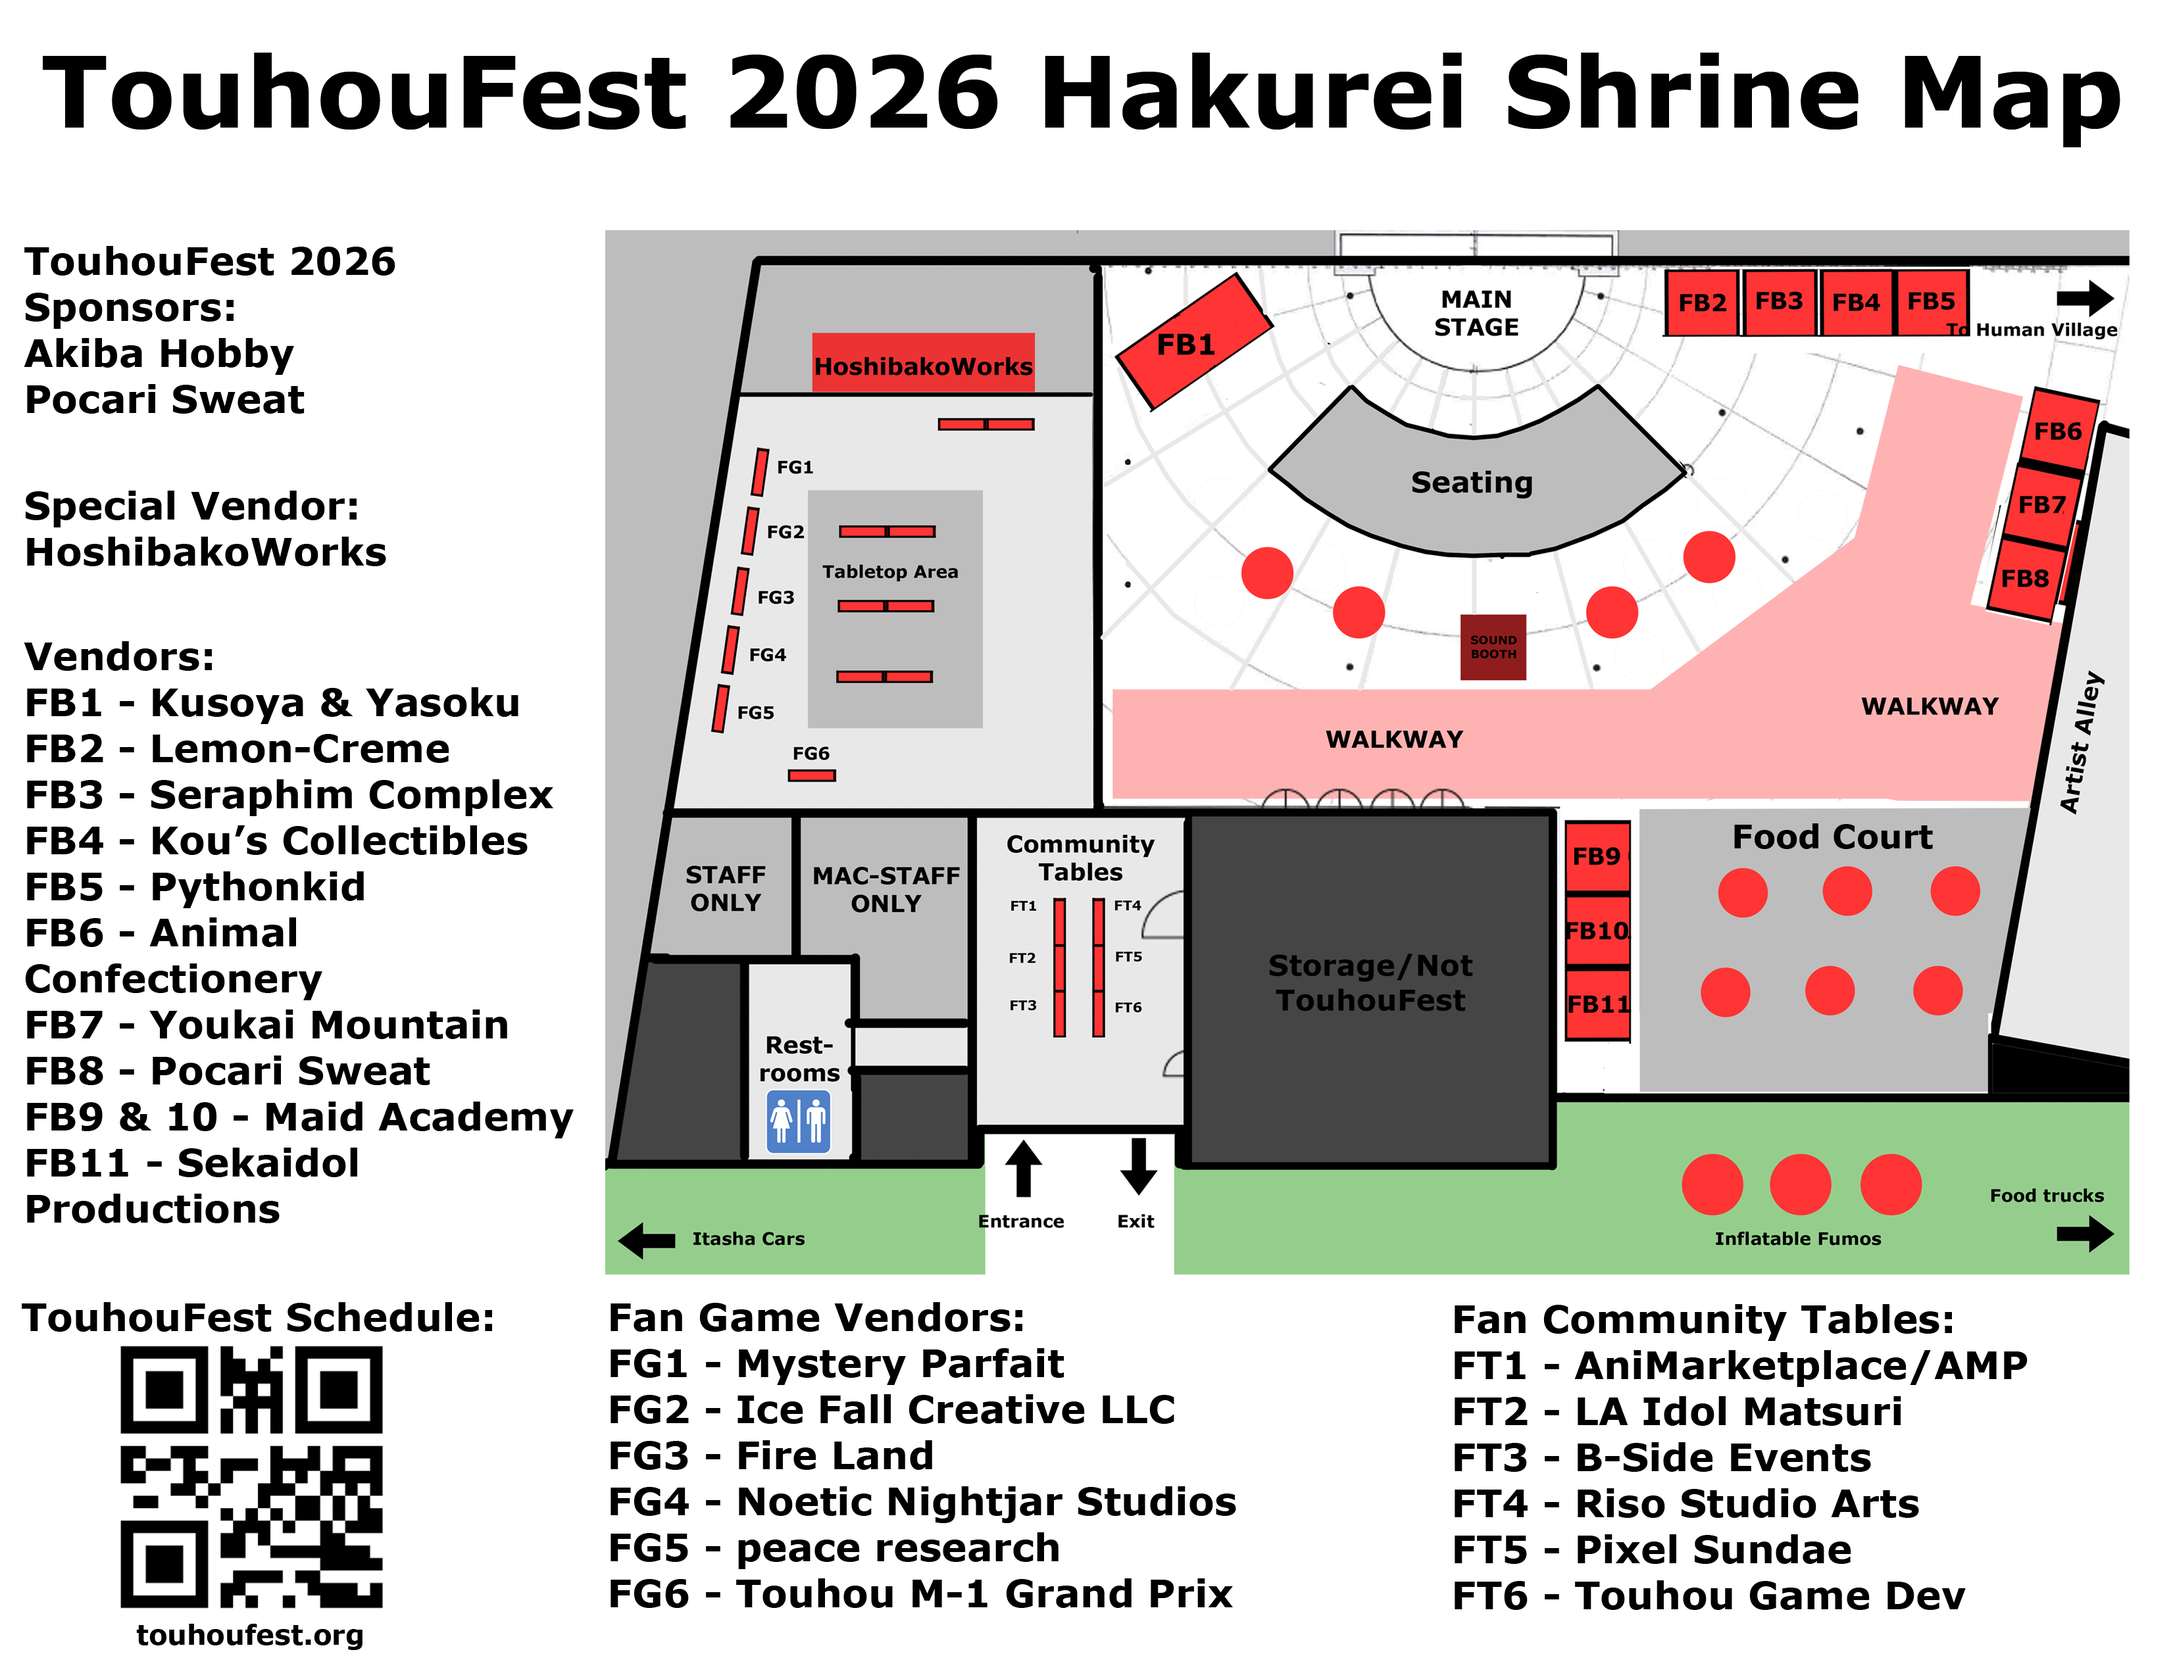
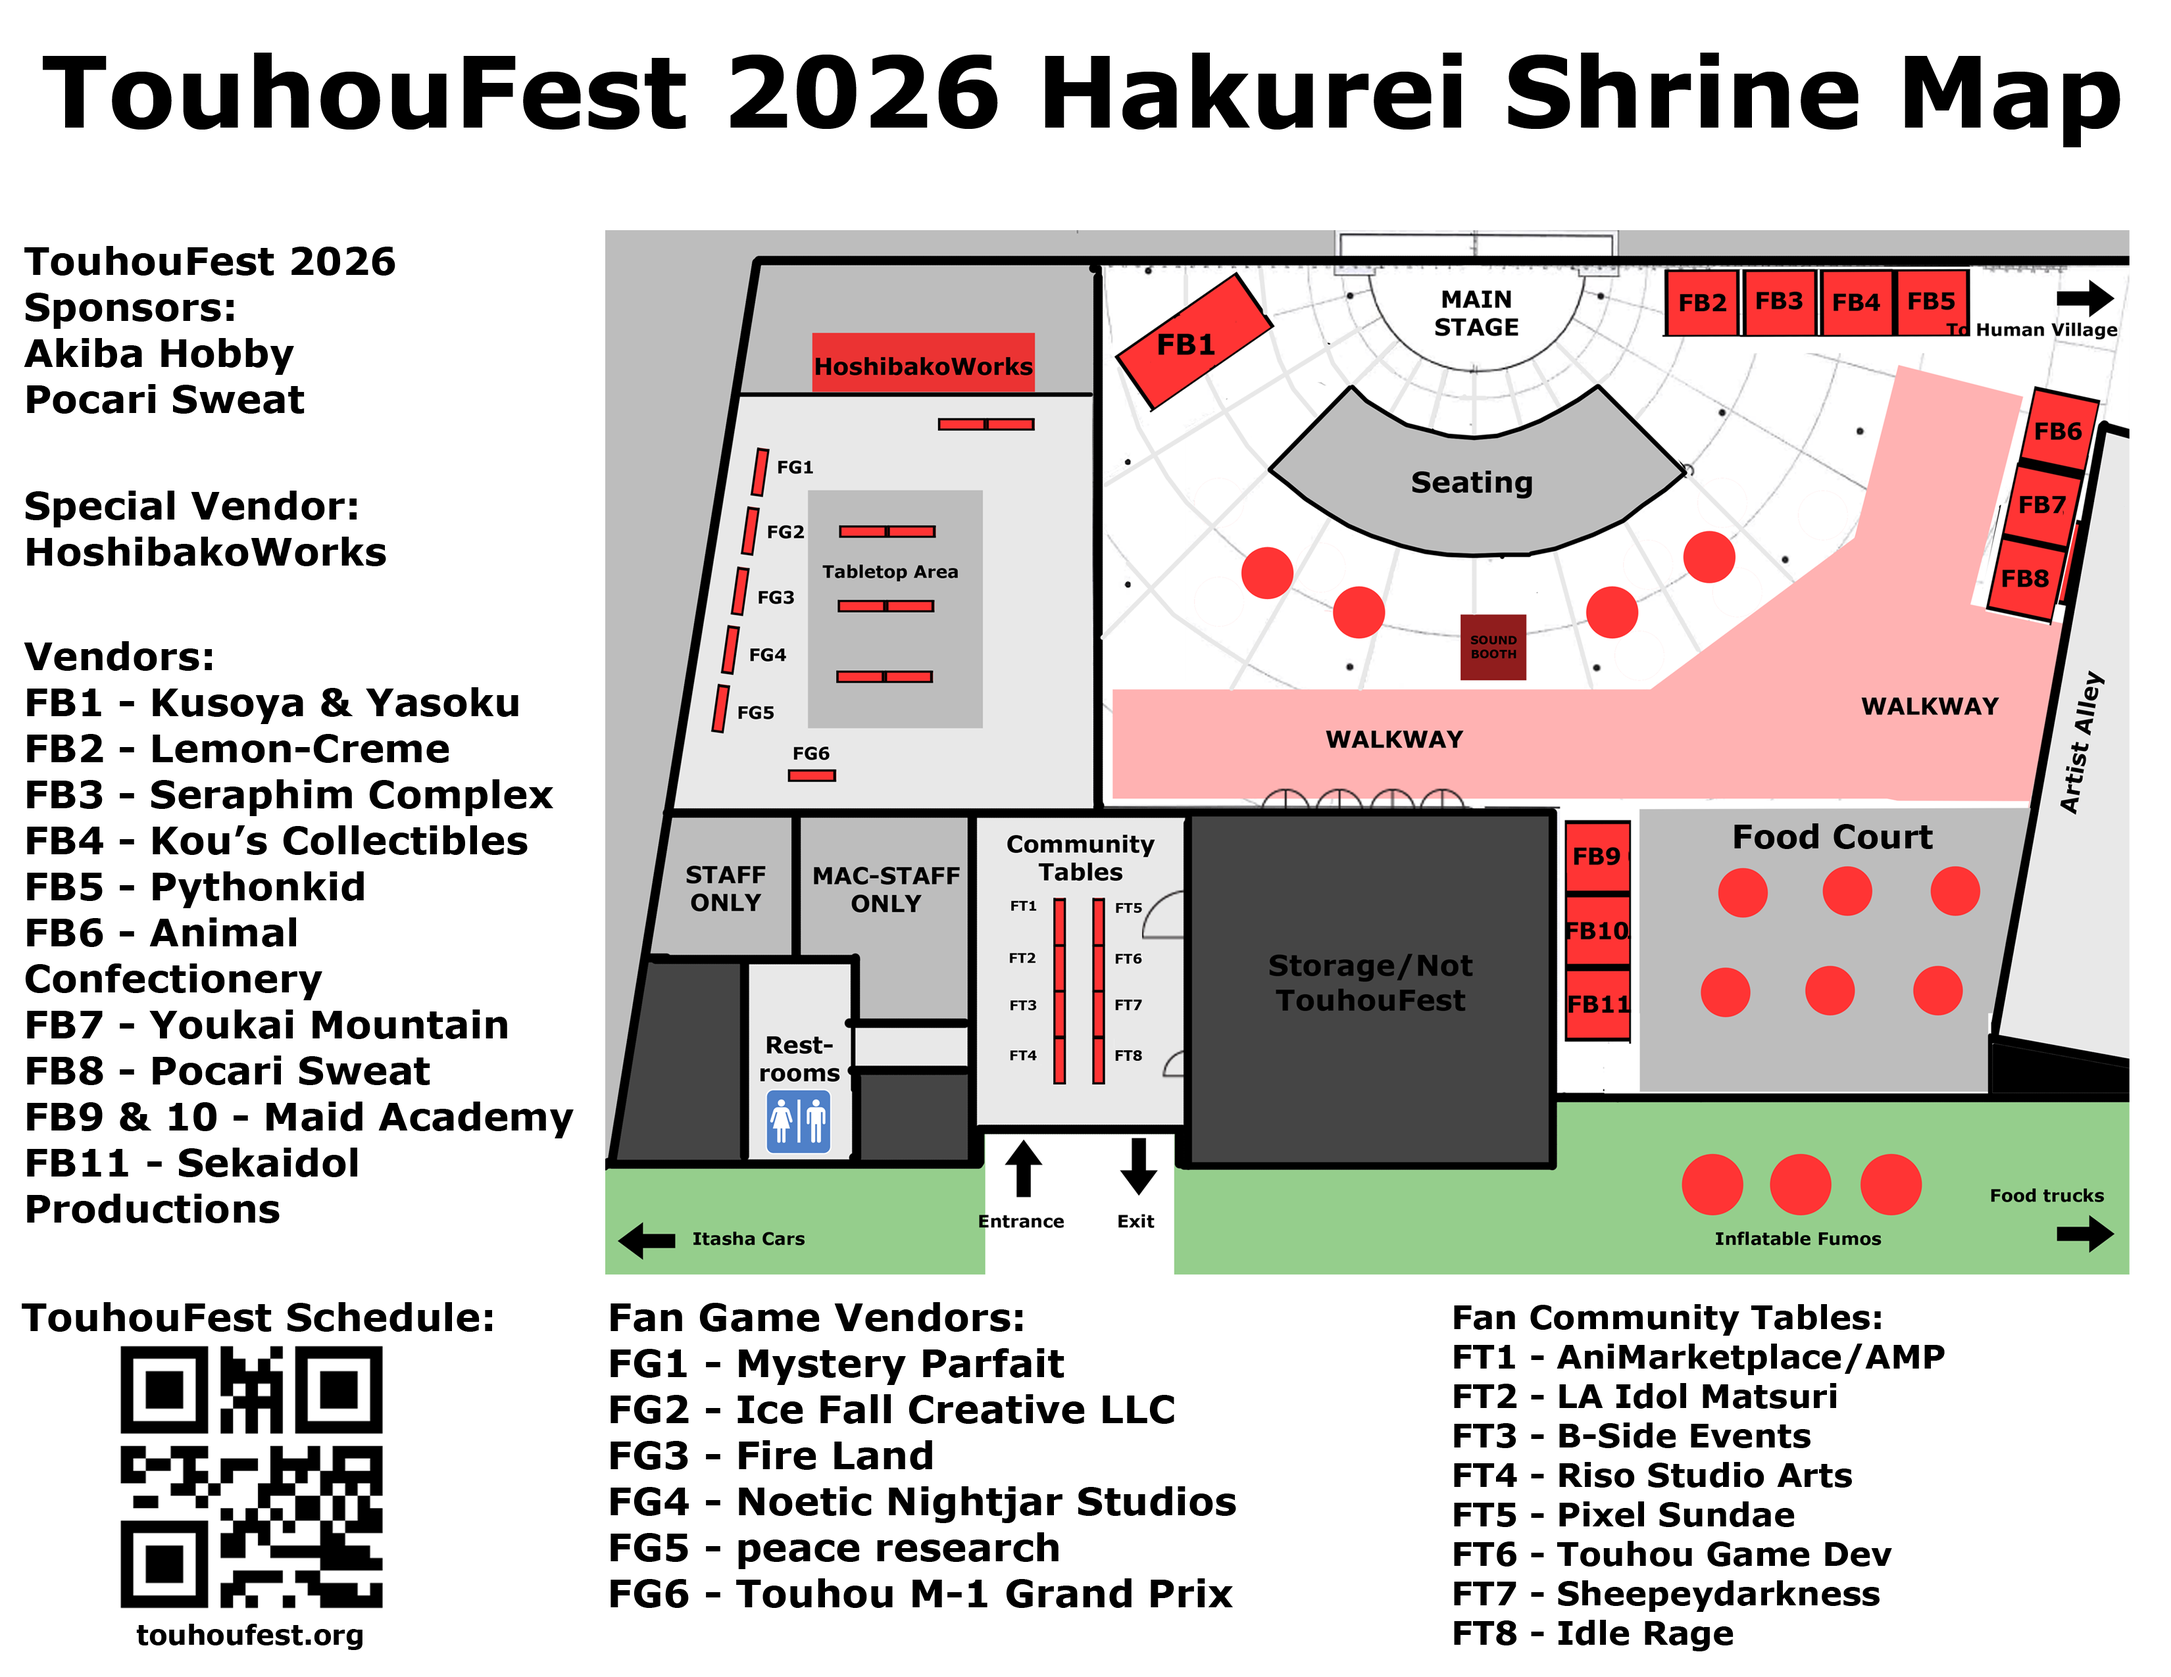
added updated torino plaza map

Changed region(s): [[0.6555, 0.7745, 0.9364, 0.9914], [0.4682, 0.6196, 0.5306, 0.6506]]

diff --git a/src/menupages/Vendors.tsx b/src/menupages/Vendors.tsx
@@ -15,7 +15,7 @@ import Row from 'react-bootstrap/Row';
 import Col from 'react-bootstrap/Col';
 import Card from 'react-bootstrap/Card';
 import { Image } from 'react-bootstrap';
-import { CircledBullets, artistalleymap, vendorsmap, torinoplazamap, placeholder, MakeGoheiHeader, MakeGenericCard} from '../Utils';
+import { CircledBullets, artistalleymap, vendorsmap, torinoplazamap, placeholder, MakeGoheiHeader, MakeGenericCard, MakeLocationBadge} from '../Utils';
 
 import idolmatsuri from "./../images/artistalley/idolmatsuri.png";
 
@@ -101,7 +101,7 @@ let vendors = [
 {"name": "BeatMARIO/COOL&CREATE", "image": beatmario, "location": "V07", "website": "https://www.youtube.com/channel/UClzpoRto1BJXaRGe9OkkGLQ", "role": "Guest"},
 {"name": "Maron/IOSYS", "image": maron, "location": "V08", "website": "https://x.com/maron47", "role": "Guest"},
 {"name": "YaboiMatoi", "image": yaboimatoi, "location": "V13", "website": "https://www.yaboimatoi.com/", "role": "Guest"},
-{"name": "Akai Ryusei/Tokyo Active NEETS", "image": akairyusei, "location": "V15", "website": "https://neets.tokyo/", "role": "Guest"},
+{"name": "Akai Ryusei/Tokyo Active NEETS", "image": akairyusei, "location": "V14", "website": "https://neets.tokyo/", "role": "Guest"},
 ];
 vendors.sort((a,b) => a["location"].localeCompare(b["location"]));
 
@@ -124,18 +124,20 @@ let communitytables = [
 {"name": "LA Idol Matsuri", "image": idolmatsuri, "location": "FT2", "website": "https://www.la-idolmatsuri.org/", "role": ""},
 {"name": "B-Side Events", "image": bsideevents, "location": "FT3", "website": "https://www.instagram.com/events_bside/", "role": ""},
 {"name": "Riso Studio Arts", "image": risostudioarts, "location": "FT4", "website": "https://risostudioarts.com/", "role": ""},
-{"name": "PixelSundae", "image": placeholder, "location": "FT4", "website": "", "role": ""},
-{"name": "Touhou Game Dev", "image": placeholder, "location": "FT5", "website": "", "role": ""},
+{"name": "PixelSundae", "image": placeholder, "location": "FT5", "website": "", "role": ""},
+{"name": "Touhou Game Dev", "image": placeholder, "location": "FT6", "website": "", "role": ""},
+{"name": "Sheepeydarkness", "image": placeholder, "location": "FT7", "website": "", "role": ""},
+{"name": "Idle Rage", "image": placeholder, "location": "FT8", "website": "", "role": ""},
 ];
 communitytables.sort((a,b) => a["location"].localeCompare(b["location"]));
 
 let fangametables = [
-{"name": "Mystery Parfait", "image": danmaku, "location": "FT1", "website": "https://danmaku.party", "role": ""},
-{"name": "Ice Fall Creative", "image": danmakumaze, "location": "FT2", "website": "https://store.steampowered.com/app/2927320/Touhou_Danmaku_Maze/", "role": ""},
-{"name": "Fire Land", "image": fireland, "location": "FT3", "website": "https://store.steampowered.com/app/2927320/Touhou_Danmaku_Maze/", "role": ""},
-{"name": "Noetic Nightjar Studios", "image": noetic, "location": "FT4", "website": "http://noeticnightjar.com/", "role": ""},
-{"name": "peace research", "image": placeholder, "location": "FT4", "website": "", "role": ""},
-{"name": "Touhou M-1 Grand Prix", "image": grandprix, "location": "FT5", "website": "", "role": ""},
+{"name": "Mystery Parfait", "image": danmaku, "location": "FG1", "website": "https://danmaku.party", "role": ""},
+{"name": "Ice Fall Creative", "image": danmakumaze, "location": "FG2", "website": "https://store.steampowered.com/app/2927320/Touhou_Danmaku_Maze/", "role": ""},
+{"name": "Fire Land", "image": fireland, "location": "FG3", "website": "https://store.steampowered.com/app/2927320/Touhou_Danmaku_Maze/", "role": ""},
+{"name": "Noetic Nightjar Studios", "image": noetic, "location": "FG4", "website": "http://noeticnightjar.com/", "role": ""},
+{"name": "peace research", "image": placeholder, "location": "FG5", "website": "", "role": ""},
+{"name": "Touhou M-1 Grand Prix", "image": grandprix, "location": "FG6", "website": "https://www.youtube.com/channel/UC1uFa3v2uibwxWnI_hrD9fA", "role": ""},
 ];
 communitytables.sort((a,b) => a["location"].localeCompare(b["location"]));
 
@@ -172,6 +174,7 @@ export const vendorsPage= {
         </Row>
 
         <h4>List of Vendors</h4>
+        <p className="my-3"><MakeLocationBadge location="Entry Plaza"/></p>
         <p>Entries listed below are in vendors (denoted "Booth VXX").</p>
         <Row xs={2} md={4} lg={5} className="g-3 justify-content-center">
             {vendors.map((artist, i) => <>
@@ -197,8 +200,8 @@ export const vendorsPage= {
                 <GlobalTransformWrapper src={torinoplazamap} caption="Map of Vendors at Torino Plaza" />
             </Col>
         </Row>
-        <h4>Entry Foyer (Community Tables)</h4>
-        <p>Some booths may be empty.</p>
+        <h4>Fan Community Tables</h4>
+        <p className="my-3"><MakeLocationBadge location="Entry Foyer (Ken Miller Rec Center)"/></p>
         <Row xs={2} md={4} lg={5} className="g-3 justify-content-center">
             {communitytables.map((artist, i) => <>
              <Col>
@@ -214,7 +217,8 @@ export const vendorsPage= {
             </>)}
         </Row>
 
-       <h4 className="mt-3">Torino Plaza (Shrine Booths)</h4>
+       <h4 className="mt-3">Torino Plaza Vendors</h4>
+        <p className="my-3"><MakeLocationBadge location="Torino Plaza"/></p>
         <Row xs={2} md={4} lg={5} className="g-3 justify-content-center">
             {plazatables.map((artist, i) => <>
              <Col>
@@ -230,7 +234,8 @@ export const vendorsPage= {
             </>)}
        </Row>
 
-       <h4 className="mt-3">Fan Game Booths (Assembly Hall)</h4>
+       <h4 className="mt-3">Fan Game Vendors</h4>
+        <p className="my-3"><MakeLocationBadge location="Assembly Hall"/></p>
         <Row xs={2} md={4} lg={5} className="g-3 justify-content-center">
             {fangametables.map((artist, i) => <>
              <Col>
